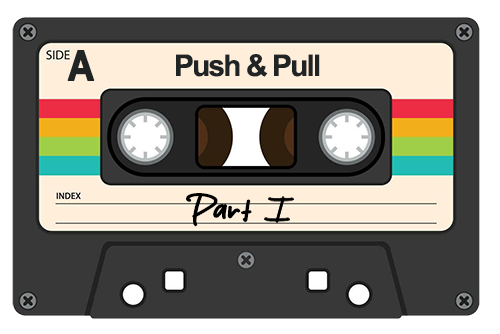
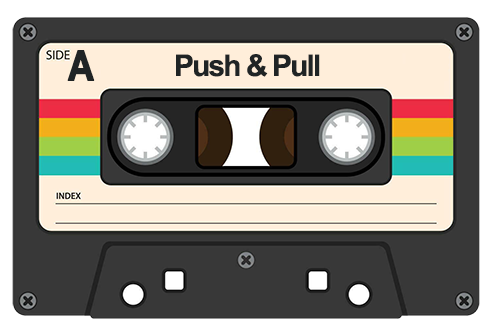
casettes

Changed region(s): [[0.36, 0.5689, 0.6, 0.6886]]

diff --git a/part_one.html b/part_one.html
@@ -271,10 +271,13 @@ Don&#39;t be afraid.
 Just [[start]] the tape.
 
 
-</tw-passagedata><tw-passagedata pid="2" name="start" tags="" position="500,475" size="100,100">&lt;br&gt;&lt;br&gt;
+</tw-passagedata><tw-passagedata pid="2" name="start" tags="" position="500,475" size="100,100">[align center]
+{embed image: &#39;https://intrwvnff.github.io/pshpll/res/spin.gif&#39;, alt:&#39;Animated casette tape labeled Push &amp; Pull - Part I&#39;}
+[cont]
+
 [align center]
-{embed image: &#39;https://intrwvnff.github.io/pshpll/res/casetteA.png&#39;, alt:&#39;Static casette tape labeled Push &amp; Pull - Part I&#39;}
 *&quot;That&#39;s a wrap for tonight everyone. Thank you!&quot;*
+[cont]
 
 All around him, on the open backlot, the crew starts packing up. Lighting stands clatter shut, grip trucks rumble off over gravel. He hears heavy yawns, relieved sighs and sleepy &#39;see you laters&#39; drifting off into the evening air.
 
@@ -286,7 +289,7 @@ He could text him, hoping they might still share a nightcap—after all, they we
 
 Or he could take the hint and [[let it go|Sam&#39;s Path]]. If his friend had wanted his company, he would have stayed.
 
-&lt;br&gt;&lt;br&gt;</tw-passagedata><tw-passagedata pid="3" name="Sam&#39;s Path" tags="" position="500,600" size="100,100"> &lt;br&gt;&lt;br&gt;
+&lt;br&gt;</tw-passagedata><tw-passagedata pid="3" name="Sam&#39;s Path" tags="" position="500,600" size="100,100"> &lt;br&gt;&lt;br&gt;
 
 Sam mentally kicks himself. From day one, he’s decided it isn’t fair to place expectations on his friend. What Jacob gives freely is a gift he treasures with every fiber of his being. But falling into expectation leads somewhere dangerous, a place beyond reason, where nothing stays safe.
 
